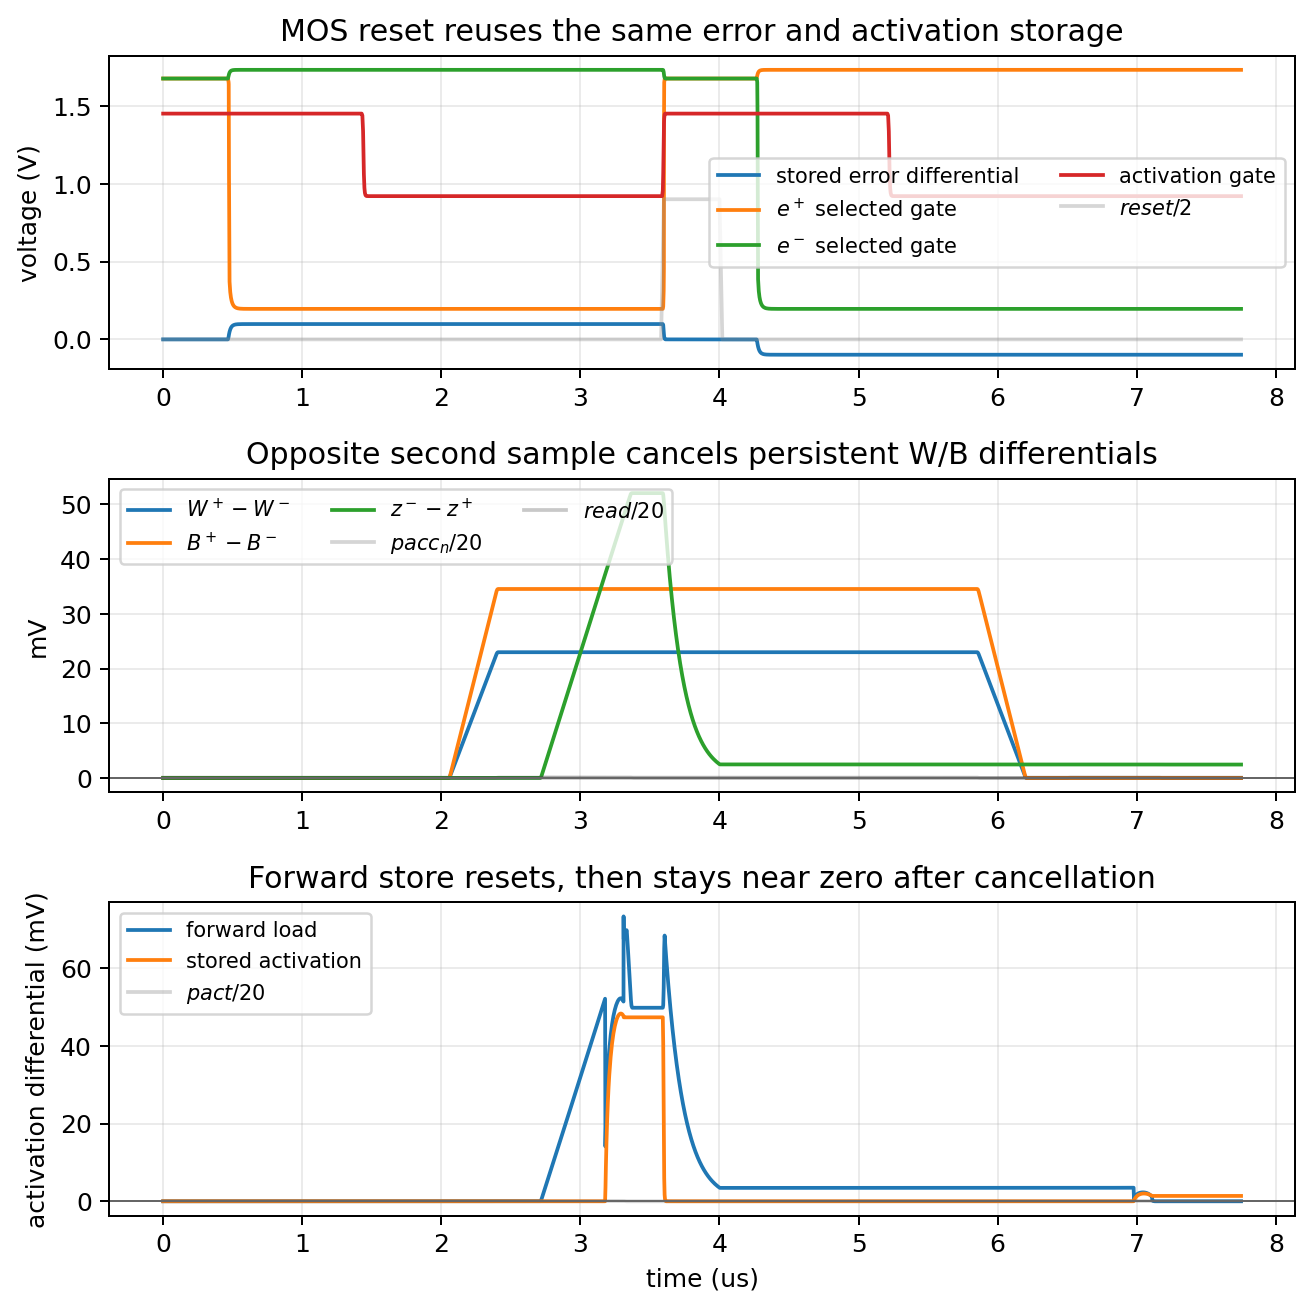
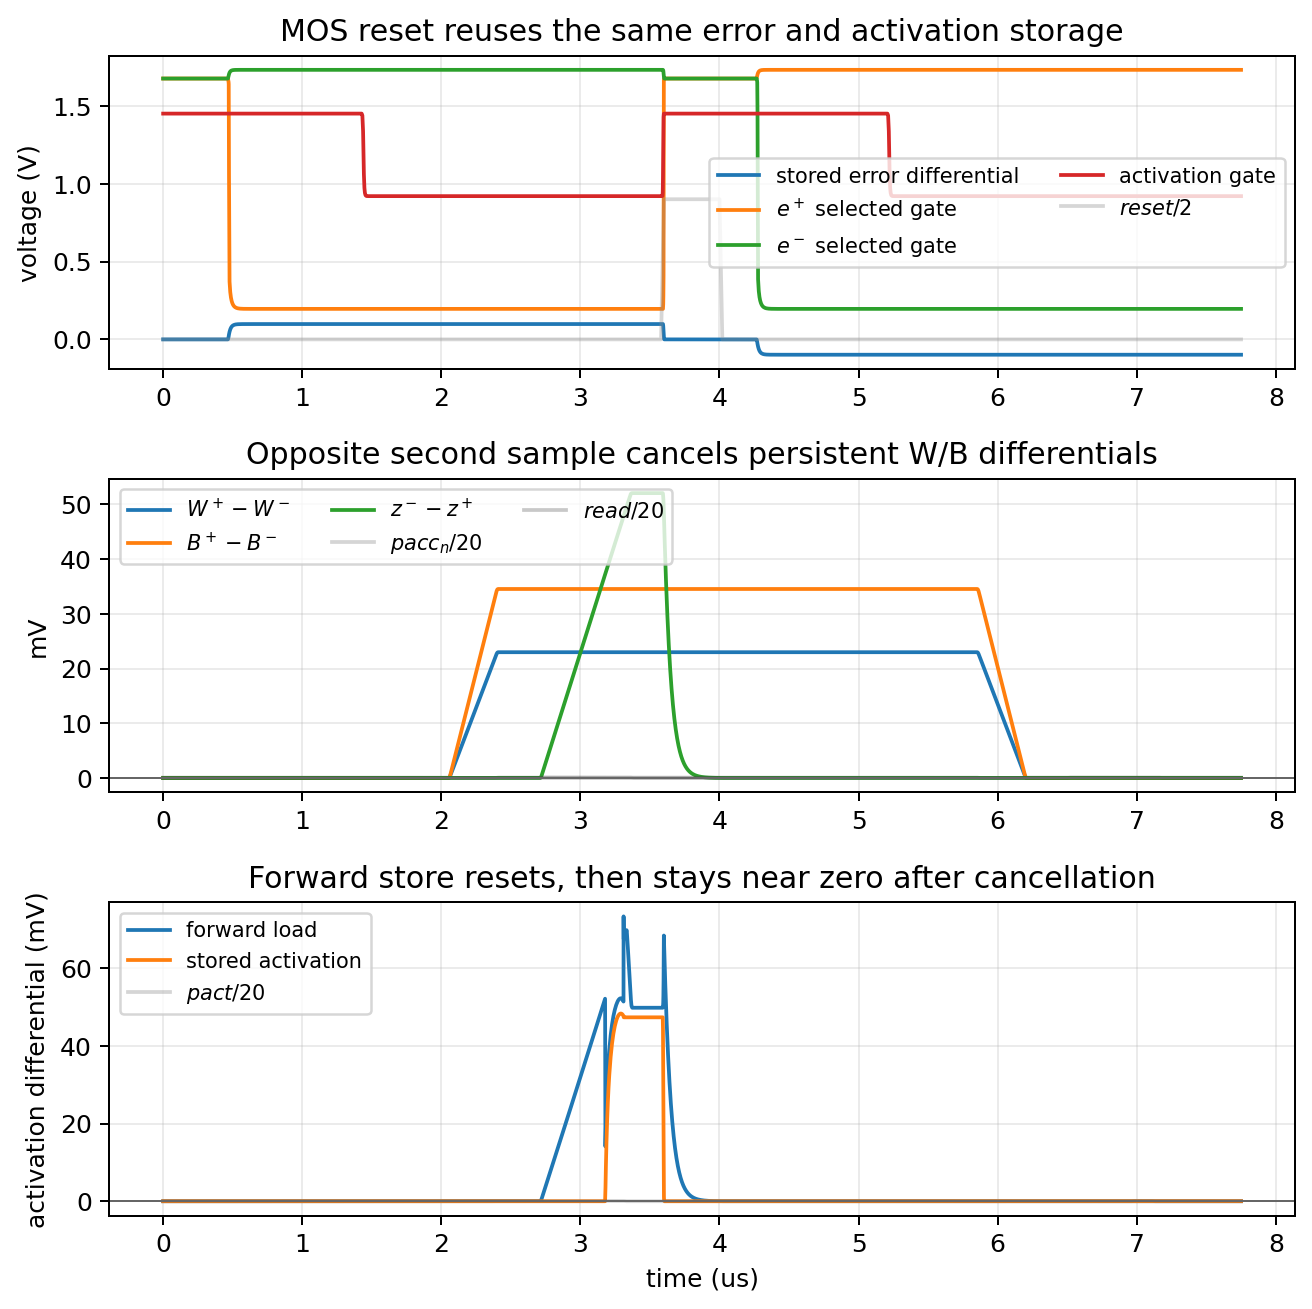
Tighten MOS update-forward reuse reset sizing

Changed region(s): [[0.5, 0.7334, 0.9375, 0.9167], [0.5312, 0.5806, 0.9375, 0.6112], [0.5, 0.4278, 0.5312, 0.5806]]

diff --git a/spice/run_mos_cell_characterization.py b/spice/run_mos_cell_characterization.py
@@ -6568,7 +6568,7 @@ quit
 * and must cancel the persistent W/B differential without Python capacitor
 * writes or behavioral update/readback sources.
 {COMMON_MODELS}
-.param CERR=10p CWRITE=500p CBIAS=500p CSTORE=10p CSUM=500p WSW=24u WWRITE=24u WRESTN=18u WRESTP=300u WREAD=24u WRESETN=24u WRESETP=60u
+.param CERR=10p CWRITE=500p CBIAS=500p CSTORE=10p CSUM=500p WSW=24u WWRITE=24u WRESTN=18u WRESTP=300u WREAD=24u WRESETN=60u WRESETP=180u
 VDD vdd 0 1.8
 VTAIL vbias 0 0.95
 VECM ecm 0 1.04
@@ -6729,15 +6729,15 @@ quit
     require(hyrat(3.35e-6, hyr_preact) > 0.045, "reuse first sample should read positive preactivation")
     require(hyrat(4.10e-6, np.abs(hyr_hidden)) < 0.004, "reuse reset should clear hidden-error differential")
     require(abs(hyrat(4.10e-6, hyr_hcap) - 1.45) < 0.015, "reuse reset should return activation gate inactive")
-    require(abs(hyrat(4.10e-6, hyr_preact)) < 0.006, "reuse reset should clear summing differential")
-    require(abs(hyrat(4.10e-6, hyr_forward_store)) < 0.006, "reuse reset should clear stored forward activation")
+    require(abs(hyrat(4.10e-6, hyr_preact)) < 0.001, "reuse reset should clear summing differential")
+    require(abs(hyrat(4.10e-6, hyr_forward_store)) < 0.001, "reuse reset should clear stored forward activation")
     require(hyrat(5.15e-6, hyr_hidden) < -0.07, "reuse second sample should store negative hidden error")
     require(hyrat(5.20e-6, hyr_rgm) < 0.30, "reuse second sample should select e- restored gate")
     require(abs(hyrat(5.75e-6, hyr_hcap) - 0.92) < 0.012, "reuse second sample should resample active activation")
     require(abs(hyrat(6.35e-6, hyr_weight)) < 0.004, "reuse second opposite update should cancel weight differential")
     require(abs(hyrat(6.35e-6, hyr_bias)) < 0.004, "reuse second opposite update should cancel bias differential")
-    require(abs(hyrat(7.15e-6, hyr_preact)) < 0.008, "reuse cancelled W/B state should read near-zero preactivation")
-    require(abs(hyrat(7.45e-6, hyr_forward_store)) < 0.008, "reuse cancelled state should store near-zero activation")
+    require(abs(hyrat(7.15e-6, hyr_preact)) < 0.001, "reuse cancelled W/B state should read near-zero preactivation")
+    require(abs(hyrat(7.45e-6, hyr_forward_store)) < 0.001, "reuse cancelled state should store near-zero activation")
 
     hyr_fig, hyr_axes = plt.subplots(3, 1, figsize=(7.4, 7.4), gridspec_kw={"height_ratios": [1.0, 1.0, 1.0]})
     hyr_axes[0].plot(1e6 * hyrt, hyr_hidden, label="stored error differential")

diff --git a/docs/spicenn_progress_note.tex b/docs/spicenn_progress_note.tex
@@ -1332,15 +1332,19 @@ must satisfy before it can replace the current behavioral prototype.
   \(52.07\) mV preactivation, and stores \(47.35\) mV of activation.  A MOS
   transmission-gate reset then clears only the transient hidden-error,
   activation-input, summing, and forward-store capacitors; the persistent
-  \(W/B\) rails remain untouched.  The second sample stores \(e^-\) with the
+  \(W/B\) rails remain untouched.  The reset devices are sized
+  \(W_N=60\,\mu\mathrm{m}\), \(W_P=180\,\mu\mathrm{m}\) in this integrated
+  reuse deck; the earlier \(24/60\,\mu\mathrm{m}\) reset left millivolt-scale
+  residue on the large summing capacitor.  The second sample stores \(e^-\) with the
   same \(a^+\) activation and locally writes the opposite rails, cancelling the
   persistent differentials to the plotted precision.  After cancellation the
   individual rails are both elevated
   (\(W^+=W^-\approx0.873\) V and \(B^+=B^-\approx0.885\) V), so the zero is a
   differential cancellation rather than a hidden reset of the trainable state.
-  The residual summed preactivation is about \(2.46\) mV and the second stored
-  activation is about \(1.37\) mV, making the current common-mode residual
-  visible for later sizing.}
+  The residual summed preactivation is about \(0.013\) mV and the second stored
+  activation is about \(0.011\) mV, showing that the previous residue was a
+  transient-state reset sizing issue rather than hidden cancellation of the
+  trainable rails.}
   \label{fig:mos-hidden-writer-restored-gate-hybrid-update-forward-reuse-ngspice}
 \end{figure}
 

diff --git a/engineering_log.md b/engineering_log.md
@@ -2,6 +2,7 @@
 
 ## 2026-05-25
 
+- Resized the integrated same-cell update-to-forward reset after tracing the reuse residue to transient summing-state reset error rather than W/B common-mode readback. In the reuse deck, increasing the transient reset transmission gates from \(W_N/W_P=24/60\,\mu\mathrm{m}\) to \(60/180\,\mu\mathrm{m}\) keeps the first valid state unchanged (\(z^- - z^+\approx50.76\) mV and \(h^- - h^+\approx47.35\) mV in the regenerated plot), but drops the post-reset summing residue from millivolts to \(0.013\) mV and the final cancelled-state stored activation to \(0.011\) mV. The persistent \(W/B\) rails still cancel differentially while remaining elevated equally, so the improvement is real transient reset sizing, not hidden trainable-state erasure.
 - Added a MOS-only same-cell reuse characterization for the hybrid update-to-forward path. One physical hidden-error store, activation sample cap, persistent \(W/B\) state, summing pair, and forward-store pair sees an \(a^+e^+\) sample, a MOS reset of only transient capacitors, then an \(a^+e^-\) sample. The first sample writes \(W^+ - W^- = 22.99\) mV and \(B^+ - B^- = 34.54\) mV, reads \(z^- - z^+ = 52.07\) mV, and stores \(h^- - h^+ = 47.35\) mV. The reset clears hidden-error and forward-store differentials to the assertion window while leaving W/B untouched. The second opposite sample cancels the persistent differentials to near zero with rails elevated equally (\(W^+=W^-\approx0.873\) V, \(B^+=B^-\approx0.885\) V). The remaining read residual is \(z^- - z^+\approx2.46\) mV and stored activation \(\approx1.37\) mV, which is acceptable for this Level-1 check but marks a common-mode cancellation residue to size down later.
 - Added a four-quadrant MOS-only hybrid update-to-forward-store characterization. This family-completes the prior \(a^+e^+\) update-forward deck: matched copies cover \(a^+e^+\), \(a^+e^-\), \(a^-e^+\), and \(a^-e^-\), write persistent \(W/B\) states, read them into signed summing capacitors, and store the crossed-MOS forward-pair activation. Measured \(W^+ - W^-\) follows \(\Delta W\propto ae\) as \(+22.99\), \(-22.99\), \(-22.99\), \(+22.99\) mV. Measured \(B^+ - B^-\) follows \(\Delta B\propto e\) as \(+34.54\), \(-34.54\), \(+34.54\), \(-34.54\) mV. With the read input sign matching the sampled activation sign, the summed preactivation and stored activation follow the error sign: \(z^- - z^+=+50.76/-50.76/+50.76/-50.76\) mV and \(h^- - h^+=+47.35/-47.35/+47.35/-47.35\) mV.
 - Added a MOS-only hybrid update-to-forward-store characterization. The deck writes one \(a^+e^+\) sample into persistent \(W^+/W^-\) and \(B^+/B^-\) capacitors, then uses those same states to drive a shared signed summing pair and crossed MOS forward pair before sampling the resulting activation on \(h^+/h^-\). Measured values are \(W^+ - W^- = 22.99\) mV, \(B^+ - B^- = 34.54\) mV, \(z^- - z^+ = 52.07\) mV, peak forward load \(73.34\) mV, and held activation \(h^- - h^+ = 47.35\) mV. The read/forward phases disturb the weight and bias states by only \(0.005/0.002\) uV. The key circuit lesson is that \(pact\) must close inside the valid forward-load window; leaving the activation-store switch on after the summing common mode droops makes the cap track the wrong value even though the forward pair itself is strong enough.
